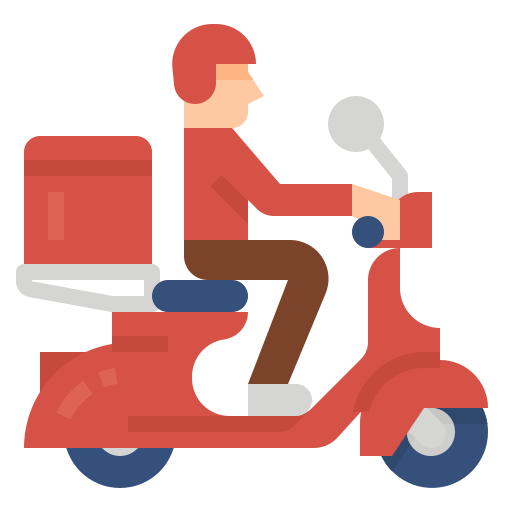
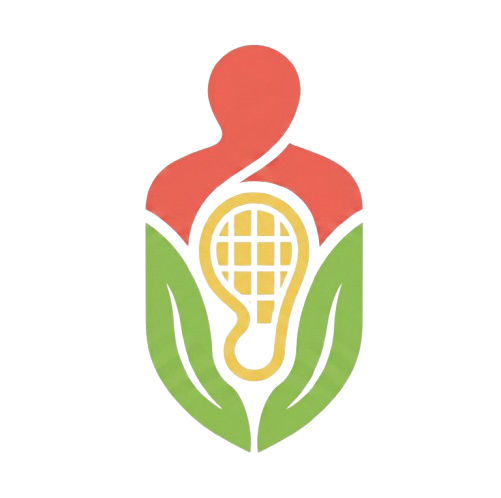
Update PWA

diff --git a/index.html b/index.html
@@ -7,8 +7,10 @@
     <meta name="apple-mobile-web-app-capable" content="yes">
     <meta name="apple-mobile-web-app-status-bar-style" content="black-translucent">
     <meta name="apple-mobile-web-app-title" content="NutriEval">
+    <link rel="manifest" href="manifest.json">
     <title>Evaluador Nutricional - Monagas</title>
     <link rel="apple-touch-icon" href="icon-512.png">
+    <link rel="icon" type="image/png" href="icon-512.png">
     <style>
         :root {
             --safe-area-top: env(safe-area-inset-top, 0px);
@@ -47,6 +49,11 @@
         
         h2 { color: #1e3a8a; text-align: center; margin-bottom: 20px; border-bottom: 3px solid #3b82f6; padding-bottom: 10px; }
         label { display: block; font-weight: 700; color: #475569; margin-bottom: 5px; font-size: 0.85rem; }
+        
+        .field-group {
+            display: flex;
+            flex-direction: column;
+        }
         
         select, input { 
             width: 100%; 
@@ -100,6 +107,66 @@
         .bg-severo { background-color: #ef4444; }
         .bg-info { background-color: #1e3a8a; }
         
+        /* Error message styles */
+        .error-message {
+            color: #ef4444;
+            font-size: 0.85rem;
+            margin-top: -8px;
+            margin-bottom: 12px;
+            display: block;
+            min-height: 1.2em;
+        }
+        
+        /* Loading spinner */
+        .spinner {
+            display: none;
+            width: 16px;
+            height: 16px;
+            border: 2px solid rgba(255,255,255,0.3);
+            border-radius: 50%;
+            border-top-color: white;
+            animation: spin 0.8s ease-in-out infinite;
+            vertical-align: middle;
+            margin-left: 8px;
+        }
+        
+        @keyframes spin {
+            to { transform: rotate(360deg); }
+        }
+        
+        /* Button loading state */
+        button.loading {
+            opacity: 0.7;
+            pointer-events: none;
+        }
+        
+        button.loading .spinner {
+            display: inline-block;
+        }
+        
+        /* Result box animations */
+        .diag-box {
+            opacity: 0;
+            transform: translateY(10px);
+            transition: opacity 0.3s ease, transform 0.3s ease;
+        }
+        
+        .diag-box.visible {
+            display: block;
+            opacity: 1;
+            transform: translateY(0);
+        }
+        
+        /* Result icons */
+        .result-icon {
+            font-weight: normal;
+            margin-right: 4px;
+        }
+        
+        .icon-adequate { color: #22c55e; }
+        .icon-moderate { color: #eab308; }
+        .icon-severe { color: #ef4444; }
+        
         @media (display-mode: standalone) {
             body { background-color: #f1f5f9; }
         }
@@ -122,16 +189,29 @@
         <option value="15_65">15,0 años – 65,0 años</option>
         <option value="mayor_65">Mayores de 65,0 años</option>
     </select>
-
-    <div class="row">
-        <div><label>Peso (kg):</label><input type="number" id="peso" placeholder="0.0" step="0.1"></div>
-        <div><label>Talla (cm):</label><input type="number" id="talla" placeholder="0"></div>
-    </div>
+    <div id="grupoEdad-error" class="error-message"></div>
 
     <label>CBI / MUAC (mm):</label>
-    <input type="number" id="muac" placeholder="Medida del brazo">
+    <input type="text" id="muac" placeholder="Ej: 124" pattern="[0-9]{1,3}" inputmode="numeric" maxlength="3" title="Ingrese un número par de 1 a 3 dígitos">
+    <div id="muac-error" class="error-message"></div>
 
-    <button onclick="evaluarTodo()">Generar Evaluación Completa</button>
+    <div class="row">
+        <div>
+            <label>Peso (kg):</label>
+            <input type="number" id="peso" placeholder="0.0" step="0.1">
+            <div id="peso-error" class="error-message"></div>
+        </div>
+        <div>
+            <label>Talla (cm):</label>
+            <input type="number" id="talla" placeholder="0">
+            <div id="talla-error" class="error-message"></div>
+        </div>
+    </div>
+
+    <button id="evaluateBtn" onclick="evaluarTodo()">
+        Evaluar
+        <span id="loadingSpinner" class="spinner"></span>
+    </button>
     <button onclick="limpiarFormulario()" style="background-color: #64748b; margin-top: 5px;">Limpiar</button>
 
     <div id="boxCbi" class="diag-box">
@@ -156,11 +236,36 @@
         const grupo = document.getElementById('grupoEdad').value;
         const peso = parseFloat(document.getElementById('peso').value);
         const talla = parseFloat(document.getElementById('talla').value);
-        const muac = parseFloat(document.getElementById('muac').value);
-
-        if (isNaN(muac) || muac <= 0 || muac > 500) { alert("Por favor, ingrese un valor válido del CBI (mayor a 0)."); return; }
-        if (!isNaN(peso) && (peso <= 0 || peso > 300)) { alert("Por favor, ingrese un peso válido (mayor a 0)."); return; }
-        if (!isNaN(talla) && (talla <= 0 || talla > 250)) { alert("Por favor, ingrese una talla válida (mayor a 0)."); return; }
+        const muac = parseInt(document.getElementById('muac').value, 10);
+        
+        // Limpiar mensajes de error previos
+        limpiarErrores();
+        
+        let esValido = true;
+        
+        if (isNaN(muac) || muac <= 0 || muac > 500) {
+            mostrarError('muac-error', "Por favor, ingrese un valor válido del CBI (mayor a 0).");
+            esValido = false;
+        }
+        if (muac % 2 !== 0) {
+            mostrarError('muac-error', "El CBI debe ser un número par.");
+            esValido = false;
+        }
+        if (!isNaN(peso) && (peso <= 0 || peso > 300)) {
+            mostrarError('peso-error', "Por favor, ingrese un peso válido (mayor a 0).");
+            esValido = false;
+        }
+        if (!isNaN(talla) && (talla <= 0 || talla > 250)) {
+            mostrarError('talla-error', "Por favor, ingrese una talla válida (mayor a 0).");
+            esValido = false;
+        }
+        
+        if (!esValido) return;
+        
+        // Estado de carga
+        const evaluateBtn = document.getElementById('evaluateBtn');
+        evaluateBtn.classList.add('loading');
+        evaluateBtn.disabled = true;
 
         // --- 1. EVALUACIÓN CBI (Siempre se muestra) ---
         let cbiRefObj = { sev: 115, ade: 125, ref: "> 125 mm" }; // Default 6m-6y
@@ -170,40 +275,56 @@
         if (grupo === "mayor_65") cbiRefObj = { sev: 185, ade: 210, ref: "> 210 mm" };
 
         let cS = "ADECUADO (SITUACIÓN A)", cC = "bg-adecuado";
-        if (muac < cbiRefObj.sev) { cS = "SEVERO (SITUACIÓN B+/C)"; cC = "bg-severo"; }
-        else if (muac < cbiRefObj.ade) { cS = "LEVE/MODERADO (SITUACIÓN B)"; cC = "bg-moderado"; }
+        let iconClass = "icon-adequate";
+        let iconText = "✓";
+        if (muac < cbiRefObj.sev) { 
+            cS = "SEVERO (SITUACIÓN B+/C)"; 
+            cC = "bg-severo";
+            iconClass = "icon-severe";
+            iconText = "✗";
+        }
+        else if (muac < cbiRefObj.ade) { 
+            cS = "LEVE/MODERADO (SITUACIÓN B)"; 
+            cC = "bg-moderado";
+            iconClass = "icon-moderate";
+            iconText = "⚠";
+        }
 
         document.getElementById('cbiStatus').innerText = cS;
         document.getElementById('cbiHeader').className = "diag-header " + cC;
-        document.getElementById('cbiVal').innerText = muac + " mm";
+        document.getElementById('cbiVal').innerHTML = '<span class="result-icon ' + iconClass + '">' + iconText + '</span>' + muac + " mm";
         document.getElementById('cbiRef').innerText = cbiRefObj.ref;
-        document.getElementById('boxCbi').style.display = "block";
+        const cbiBox = document.getElementById('boxCbi');
+        cbiBox.className = "diag-box " + cC.replace("bg-", "") + " visible";
 
         // --- 2. EVALUACIÓN ADAPTATIVA DE PESO ---
-        const boxPeso = document.getElementById('boxPeso');
+        const pesoBox = document.getElementById('boxPeso');
         let evaluoPeso = false;
+        let pesoStat = "";
+        let pesoCol = "";
 
         // A. Menores de 2 años (Peso por Edad)
         const tablaInfantil = {
             "recien_nacido": {min: 2.8, max: 4.2}, "6m": {min: 6.1, max: 9.0},
             "12m": {min: 8.2, max: 11.5}, "18m": {min: 9.3, max: 13.2}, "24m": {min: 10.3, max: 14.5}
         };
-
         if (tablaInfantil[grupo] && !isNaN(peso)) {
             const r = tablaInfantil[grupo];
             const s = (peso < r.min) ? "BAJO" : (peso > r.max) ? "ALTO" : "NORMAL";
-            const col = (s === "NORMAL") ? "bg-adecuado" : "bg-severo";
-            actualizarCuadroPeso("PESO POR EDAD", s, col, "Peso:", peso + " kg", "Rango Ideal:", r.min + "-" + r.max + " kg");
+            pesoCol = (s === "NORMAL") ? "bg-adecuado" : "bg-severo";
+            actualizarCuadroPeso("PESO POR EDAD", s, pesoCol, "Peso:", peso + " kg", "Rango Ideal:", r.min + "-" + r.max + " kg");
             evaluoPeso = true;
+            pesoStat = s;
         }
         // B. Escolares 6-9 años (Relación Talla/Peso)
         else if (grupo === "6_9" && !isNaN(peso) && !isNaN(talla)) {
             const tP = [{t:70,min:7,max:10},{t:100,min:13,max:17},{t:130,min:23,max:31},{t:145,min:32,max:44}];
             const r = tP.reduce((p, c) => Math.abs(c.t - talla) < Math.abs(p.t - talla) ? c : p);
             const s = (peso < r.min) ? "BAJO PESO" : (peso > r.max) ? "SOBREPESO" : "NORMAL";
-            const col = (s === "NORMAL") ? "bg-adecuado" : "bg-severo";
-            actualizarCuadroPeso("TALLA / PESO", s, col, "Peso:", peso + " kg", "Para " + r.t + "cm:", r.min + "-" + r.max + " kg");
+            pesoCol = (s === "NORMAL") ? "bg-adecuado" : "bg-severo";
+            actualizarCuadroPeso("TALLA / PESO", s, pesoCol, "Peso:", peso + " kg", "Para " + r.t + "cm:", r.min + "-" + r.max + " kg");
             evaluoPeso = true;
+            pesoStat = s;
         }
         // C. Mayores de 10 años (IMC)
         else if (["10_14", "15_65", "mayor_65"].includes(grupo) && !isNaN(peso) && !isNaN(talla)) {
@@ -213,12 +334,26 @@
             if (grupo === "15_65") r = {min: 17.1, max: 24.9}; // Basado en tabla 15 años enviada
 
             const s = (imc < r.min) ? "BAJO" : (imc > r.max) ? "ALTO" : "NORMAL";
-            const col = (s === "NORMAL") ? "bg-adecuado" : "bg-severo";
-            actualizarCuadroPeso("DIAGNÓSTICO IMC", s, col, "IMC:", imc, "Rango Normal:", r.min + " - " + r.max);
+            pesoCol = (s === "NORMAL") ? "bg-adecuado" : "bg-severo";
+            actualizarCuadroPeso("DIAGNÓSTICO IMC", s, pesoCol, "IMC:", imc, "Rango Normal:", r.min + " - " + r.max);
             evaluoPeso = true;
+            pesoStat = s;
         }
 
-        boxPeso.style.display = evaluoPeso ? "block" : "none";
+        // Actualizar el estado del botón de peso
+        if (evaluoPeso) {
+            pesoBox.className = "diag-box " + pesoCol.replace("bg-", "") + " visible";
+            document.getElementById('pesoStatus').innerText = pesoStat;
+        } else {
+            pesoBox.className = "diag-box";
+            pesoBox.style.display = "none";
+        }
+        
+         // Quitar estado de carga
+         evaluateBtn.classList.remove('loading');
+         evaluateBtn.disabled = false;
+
+
     }
 
     function actualizarCuadroPeso(tit, stat, col, l1, v1, l2, v2) {
@@ -231,6 +366,22 @@
         document.getElementById('pesoRef').innerText = v2;
     }
 
+    function mostrarError(elementId, mensaje) {
+        const errorElement = document.getElementById(elementId);
+        if (errorElement) {
+            errorElement.textContent = mensaje;
+            errorElement.style.display = "block";
+        }
+    }
+    
+    function limpiarErrores() {
+        const errorElements = document.querySelectorAll('.error-message');
+        errorElements.forEach(el => {
+            el.textContent = "";
+            el.style.display = "none";
+        });
+    }
+
     function limpiarFormulario() {
         document.getElementById('grupoEdad').value = "recien_nacido";
         document.getElementById('peso').value = "";
@@ -238,6 +389,25 @@
         document.getElementById('muac').value = "";
         document.getElementById('boxCbi').style.display = "none";
         document.getElementById('boxPeso').style.display = "none";
+        limpiarErrores();
+    }
+
+    // Registro del Service Worker para PWA
+    if ('serviceWorker' in navigator) {
+        window.addEventListener('load', () => {
+            navigator.serviceWorker.register('sw.js')
+                .then(registration => {
+                    console.log('SW registrado: ', registration.scope);
+                })
+                .catch(error => {
+                    console.log('SW registro falló: ', error);
+                });
+        });
+    }
+
+    // Advertir si se está abriendo el archivo directamente (file://)
+    if (window.location.protocol === 'file:') {
+        console.warn('PWA: Para instalar y usar la aplicación sin conexión, debe servirla mediante un servidor HTTP. Acceda a través de http://localhost/inn-nutrieval/');
     }
 </script>
 </body>